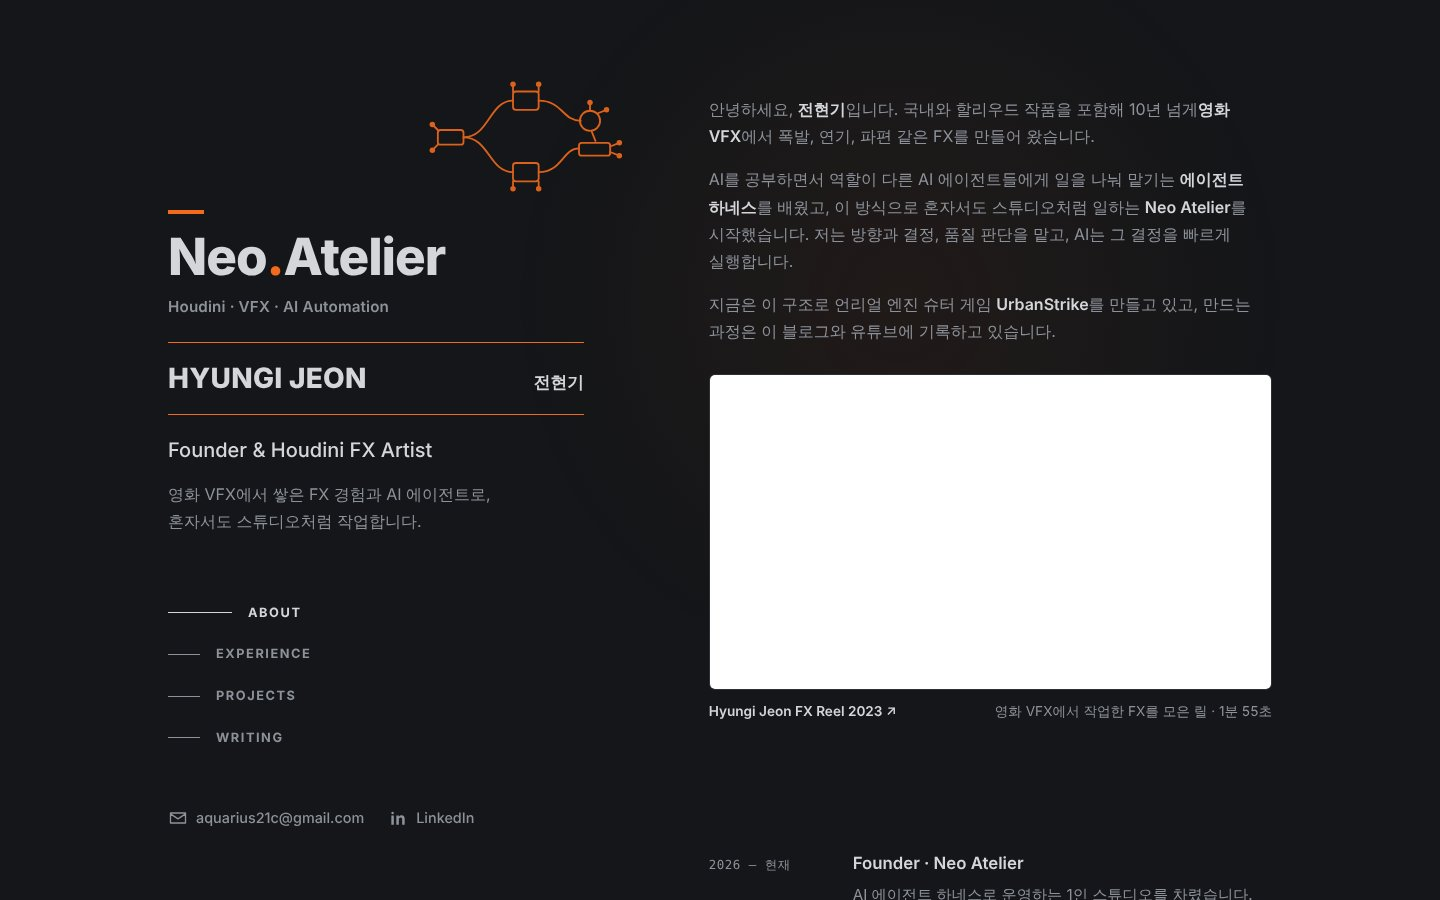
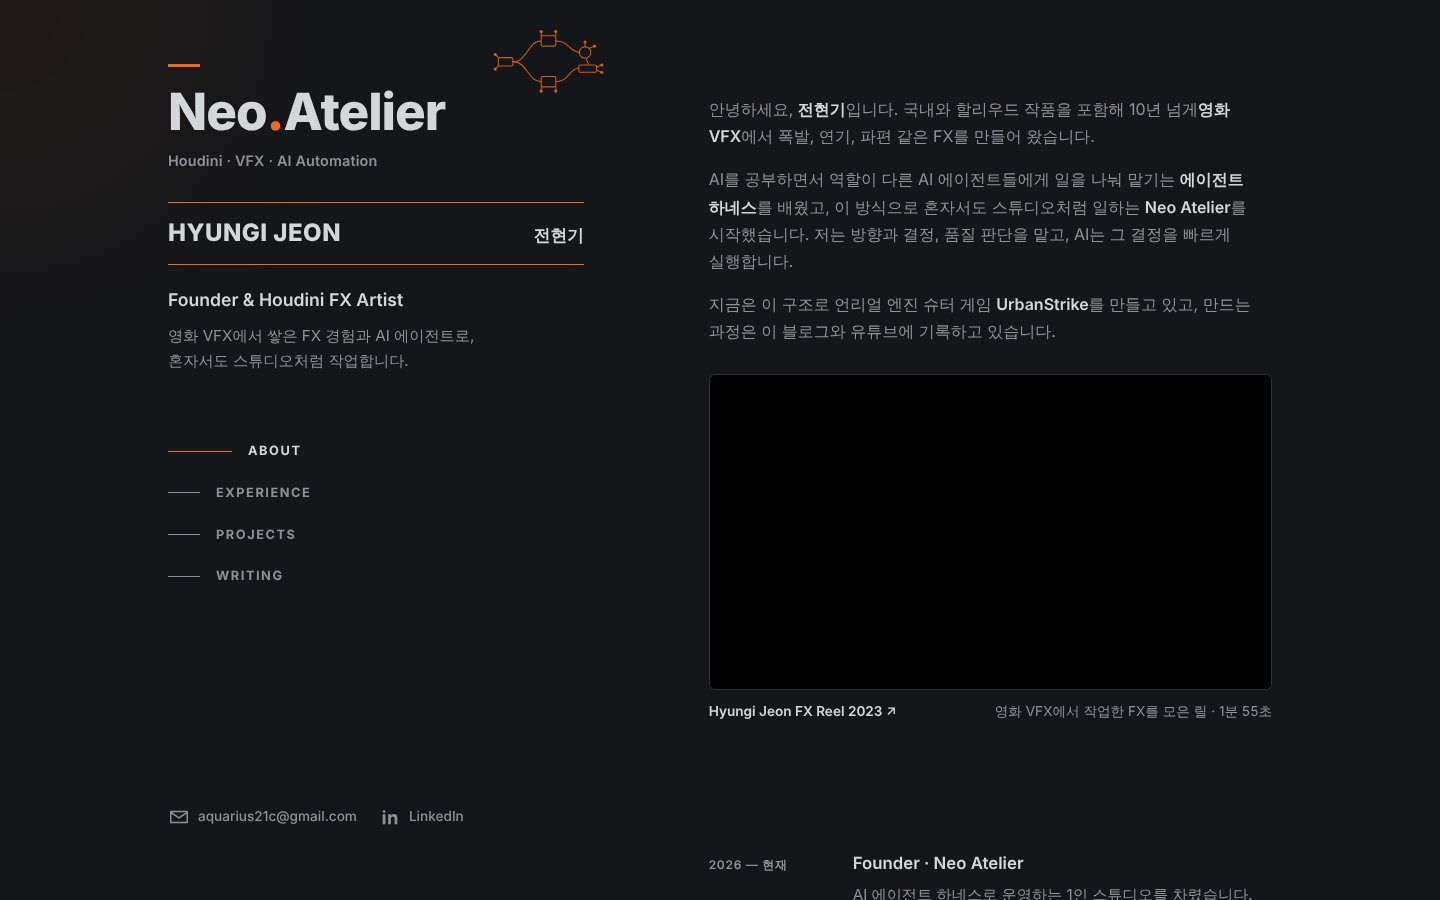
Polish homepage intro: node graph beside the wordmark, quieter thumbnails
Claude-Session: https://claude.ai/code/session_01ADUa9izcwCMGkJeSoDPczs

diff --git a/src/styles/home.css b/src/styles/home.css
@@ -22,30 +22,31 @@ body.bare { line-height: 1.7; }
 }
 
 .intro > div { position: relative; }
-.node-graph { display: block; width: min(220px, 55%); margin: 0 0 8px auto; color: var(--accent); opacity: 0.9; }
-.brand-bar { display: block; width: 36px; height: 4px; margin-bottom: 14px; background: var(--accent); }
+.brand { position: relative; max-width: 28rem; }
+.node-graph { position: absolute; top: -44px; right: 0; width: clamp(100px, 28%, 136px); color: var(--accent); opacity: 0.85; pointer-events: none; }
+.brand-bar { display: block; width: 32px; height: 3px; margin-bottom: 16px; background: var(--accent); }
 .intro h1 { margin: 0; font-size: clamp(2.4rem, 6vw, 3.2rem); font-weight: 800; line-height: 1.1; letter-spacing: -0.02em; }
 .intro h1 a { color: var(--text); }
 .intro h1 .dot { color: var(--accent); }
-.keywords { margin: 10px 0 0; font-size: 0.95rem; font-weight: 600; color: var(--muted); letter-spacing: 0.01em; }
+.keywords { margin: 10px 0 0; font-size: 0.9rem; font-weight: 600; color: var(--muted); letter-spacing: 0.01em; }
 .person {
   display: flex;
   justify-content: space-between;
   align-items: baseline;
   gap: 16px;
   max-width: 26rem;
-  margin: 22px 0 0;
-  padding: 12px 0;
+  margin: 28px 0 0;
+  padding: 10px 0;
   border-top: 1px solid var(--accent);
   border-bottom: 1px solid var(--accent);
   font-weight: 800;
   color: var(--text);
 }
-.person span:first-child { font-size: clamp(1.4rem, 3.4vw, 1.75rem); letter-spacing: 0.01em; }
+.person span:first-child { font-size: clamp(1.25rem, 3vw, 1.5rem); letter-spacing: 0.02em; }
 .person span:last-child { font-size: 1.05rem; }
 .intro h1 a:hover { text-decoration: none; }
-.role { margin: 18px 0 0; font-size: clamp(1.1rem, 2.4vw, 1.25rem); font-weight: 500; color: var(--text); }
-.tagline { margin: 14px 0 0; max-width: 22rem; color: var(--muted); }
+.role { margin: 20px 0 0; font-size: 1.1rem; font-weight: 600; color: var(--text); }
+.tagline { margin: 8px 0 0; max-width: 22rem; color: var(--muted); font-size: 0.95rem; }
 
 .section-nav { display: none; }
 .section-nav ul { list-style: none; margin: 56px 0 0; padding: 0; }
@@ -63,11 +64,11 @@ body.bare { line-height: 1.7; }
 .section-nav a:hover,
 .section-nav a[aria-current] { color: var(--text); text-decoration: none; }
 .section-nav a:hover .line,
-.section-nav a[aria-current] .line { width: 64px; background: var(--text); }
+.section-nav a[aria-current] .line { width: 64px; background: var(--accent); }
 
-.contacts { list-style: none; display: flex; flex-wrap: wrap; gap: 12px 24px; margin: 28px 0 0; padding: 0; }
-.contacts a { display: inline-flex; align-items: center; gap: 8px; color: var(--muted); font-size: 0.9rem; font-weight: 500; }
-.contacts svg { width: 20px; height: 20px; fill: none; stroke: currentColor; stroke-width: 1.6; stroke-linejoin: round; }
+.contacts { list-style: none; display: flex; flex-wrap: wrap; gap: 12px 22px; margin: 28px 0 0; padding: 0; }
+.contacts a { display: inline-flex; align-items: center; gap: 8px; color: var(--muted); font-size: 0.85rem; font-weight: 500; transition: color 0.2s; }
+.contacts svg { width: 22px; height: 22px; fill: none; stroke: currentColor; stroke-width: 1.6; stroke-linejoin: round; }
 .contacts li:last-child svg { fill: currentColor; stroke: none; }
 .contacts a:hover { color: var(--accent); text-decoration: none; }
 
@@ -94,10 +95,10 @@ body.bare { line-height: 1.7; }
 .card { position: relative; display: grid; gap: 8px; }
 .card h3 { margin: 0; font-size: 1.05rem; line-height: 1.45; color: var(--text); font-weight: 600; }
 .card p { margin: 6px 0 0; color: var(--muted); font-size: 0.95rem; }
-.card-meta { margin: 0 !important; font-family: var(--mono); font-size: 0.78rem !important; letter-spacing: 0.04em; padding-top: 3px; }
-.card-meta time { font-size: inherit; }
-.card img { width: 100%; max-width: 200px; height: auto; aspect-ratio: 16 / 9; object-fit: cover; border-radius: 4px; border: 2px solid var(--border); transition: border-color 0.2s; }
-.card:hover img { border-color: rgba(148, 163, 184, 0.4); }
+.card-meta { margin: 0 !important; font-size: 0.75rem !important; font-weight: 600; letter-spacing: 0.06em; text-transform: uppercase; padding-top: 4px; }
+.card-meta time { font-size: inherit; font-family: inherit; color: inherit; }
+.card img { width: 100%; max-width: 200px; height: auto; aspect-ratio: 16 / 9; object-fit: cover; border-radius: 4px; border: 2px solid var(--border); filter: grayscale(0.35) brightness(0.85); transition: border-color 0.2s, filter 0.2s; }
+.card:hover img { border-color: rgba(242, 107, 29, 0.45); filter: none; }
 
 /* 카드 전체를 누를 수 있게 제목 링크를 카드 크기로 넓힙니다. */
 .card-link { color: var(--text); }
